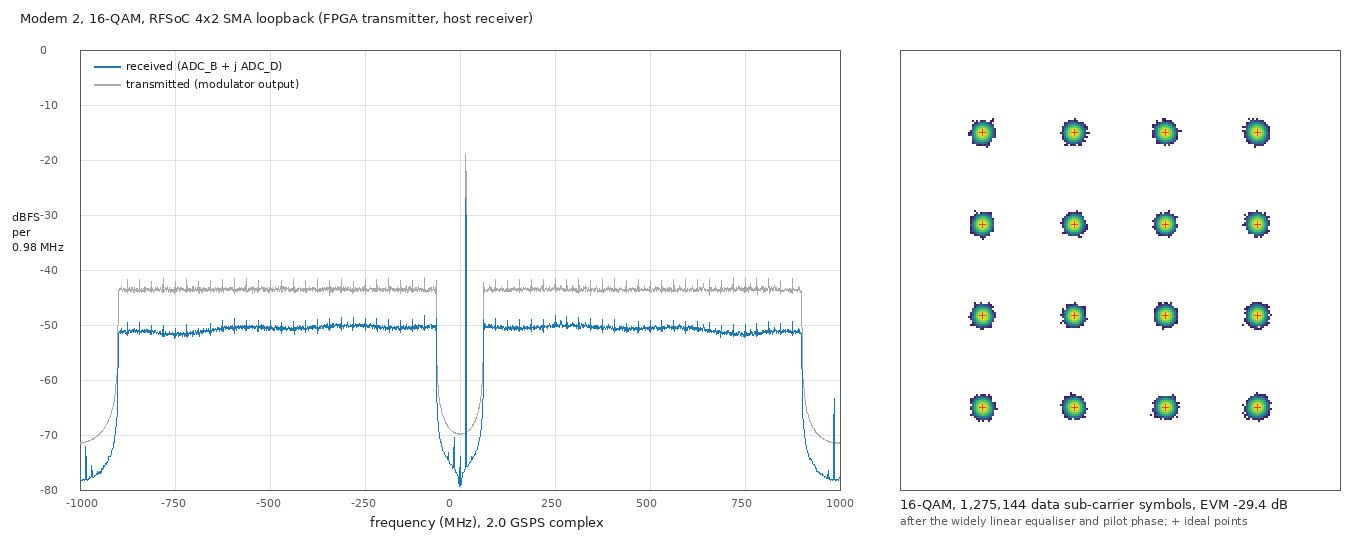
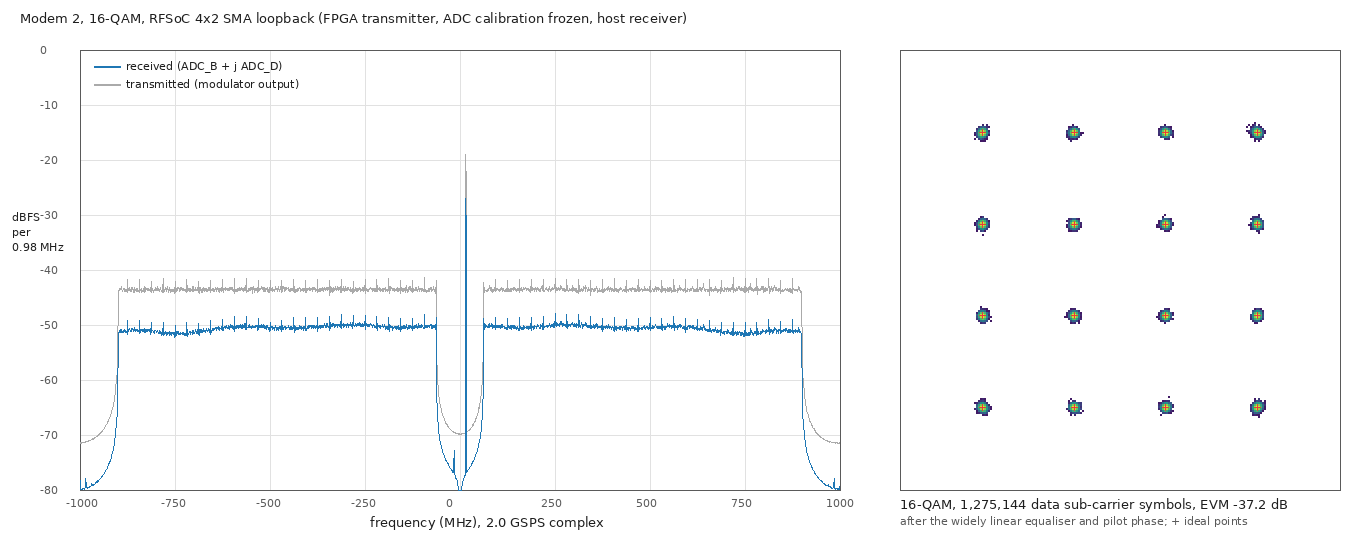
README: Modem 2 with the ADCs' calibration (tone asynchronous to the interleaving, frames muted, then frozen): EVM -37.2 dB at 2 GSPS, 415 M bits without an error at 16-QAM; 4 GSPS transmitter board; regression; worst case 2.6e-5 / 3.1e-5; figures and GIF redone

diff --git a/README.md b/README.md
@@ -9,7 +9,7 @@
 
 Continuous I/Q streaming between a Linux host and the RF data converters of the RFSoC 4x2 (XCZU48DR), carried by RoCE v2 (AMD ERNIC) on the QSFP28 port: **64 Gbit/s to the DACs and 64 Gbit/s from the ADCs at the same time, i.e. 2.0 GSPS × I/Q × 16 bit each way.** The OFDM transmitter and receiver run in C on the host CPU. Through a loopback cable (DAC_A → ADC_B for I, DAC_B → ADC_D for Q, multi-tile synchronised) the link carries raw, uncompressed video.
 
-* **Modem 2** ([zcu208_4gsps_ofdm](https://github.com/uceeyuf/zcu208_4gsps_ofdm#modem-2-two-independent-ends)): the transmitter in the FPGA modulates scrambled 720p video at 16-QAM (5.10 Gb/s); the host captures a burst of raw ADC samples and demodulates it offline. One 24.5 ms burst of 1497 OFDM frames holds 11 consecutive video frames, all byte-exact; over six bursts, 4 bit errors in 750 M bits (62 of 64 video frames byte-exact).
+* **Modem 2** ([zcu208_4gsps_ofdm](https://github.com/uceeyuf/zcu208_4gsps_ofdm#modem-2-two-independent-ends)): the transmitter in the FPGA modulates scrambled 720p video at 16-QAM (5.10 Gb/s); the host captures a burst of raw ADC samples and demodulates it offline. One 24.5 ms burst of 1497 OFDM frames holds 11 consecutive video frames; over three bursts, 375 M bits without an error, all 32 video frames byte-exact.
 It combines [rfsoc4x2_ernic](https://github.com/uceeyuf/rfsoc4x2_ernic) (100G RDMA) with [rfsoc4x2_mts](https://github.com/uceeyuf/rfsoc4x2_mts) (multi-tile sync, I/Q OFDM), both ported to Vivado 2023.2 and the RF side to 2.0 GSPS.
 
 **The OFDM modem in the FPGA** (transmitter and receiver bit-exact with their C models, on this streaming core; 2 GSPS on the board, 4 GSPS in progress) continues in [zcu208_4gsps_ofdm](https://github.com/uceeyuf/zcu208_4gsps_ofdm).
@@ -55,8 +55,8 @@ Host: Core Ultra 7 265K (8 P + 12 E cores), Mellanox ConnectX-4 (PCIe 3.0 x16), 
 | Test | Result |
 | :--- | :----- |
 | Streaming (`rf_stream_host`, tone), 10 s | 64.00 Gbit/s to the DACs and 64.00 Gbit/s from the ADCs, 0 RX gaps, 0 TX underflows, 0 RX overflows |
-| Modem 2 on the board (FPGA transmitter, host receiver on raw ADC captures; [zcu208_4gsps_ofdm](https://github.com/uceeyuf/zcu208_4gsps_ofdm#modem-2-two-independent-ends)) | 16-QAM (5.10 Gb/s), SMA loopback, 10 captures, 800 M bits: EVM −29.4 dB, 4 bit errors, BER 5.0 × 10⁻⁹ (95 % 1.9 … 12.9 × 10⁻⁹); 64 / 256-QAM BER 1.8 × 10⁻⁴ / 9.4 × 10⁻⁴ (one capture each). The converters repeat the RF pilot at ± j fs / 8 (a known spur of this board, −36 dBc) |
-| Modem 2, two independent ends, worst case (C model) | two 300 kHz lasers, carrier offset 5 MHz, sample clocks 50 ppm apart, IQ imbalance at both ends, SNR 30 dB, 16-QAM, receiver in fixed point, 12 seeds × 30 frames: BER 4.0 × 10⁻⁵ (1 polarization), 4.7 × 10⁻⁵ (2 polarizations, worst seed 8.5 × 10⁻⁵) |
+| Modem 2 on the board (FPGA transmitter, host receiver on raw ADC captures; [zcu208_4gsps_ofdm](https://github.com/uceeyuf/zcu208_4gsps_ofdm#modem-2-two-independent-ends)) | SMA loopback, the ADCs' background calibration converged on a tone asynchronous to their interleaving, then frozen. 2 GSPS: EVM −37.2 dB at 16 / 64 / 256-QAM; 16-QAM (5.10 Gb/s) 0 errors in 415 M bits (BER < 7.2 × 10⁻⁹), 64-QAM 0 / 7.7 M, 256-QAM (10.2 Gb/s) 0 / 10.2 M. 4 GSPS: 16-QAM −34.2 dB, 0 errors; 256-QAM (20.4 Gb/s) −34.4 dB, BER 4.6 × 10⁻⁵ |
+| Modem 2, two independent ends, worst case (C model) | two 300 kHz lasers, carrier offset 5 MHz, sample clocks 50 ppm apart, IQ imbalance at both ends, SNR 30 dB, 16-QAM, receiver in fixed point, 12 seeds × 30 frames: BER 2.6 × 10⁻⁵ (1 polarization), 3.1 × 10⁻⁵ (2 polarizations, worst seed 5.3 × 10⁻⁵) |
 | MTS | DAC_B / ADC_D vs DAC_A / ADC_B after sync: +0.012 … +0.014 samples (6 … 7 ps) ([log](./docs/results/mts_2gsps_board_log.txt)) |
 | Timing, resources | all constraints met (WNS +0.141 ns); BRAM 64 %, UltraRAM 75 %, DSP 0.1 %, LUT 28 % ([report](./docs/results/rdma_ofdm_timing_summary.rpt), [utilisation](./docs/results/rdma_ofdm_utilization.rpt), [by instance](./docs/results/rdma_ofdm_utilization_hierarchical.rpt)) |
 
@@ -71,25 +71,25 @@ A CPU package that reaches TjMax (105 °C) throttles, and each throttle event is
 
 ## Spectrum and constellation
 
-Modem 2 on the board: the FPGA transmitter, 64 frames of raw ADC samples of the running link (`rf_ofdm --m2 1 --dump`), the host receiver of [zcu208_4gsps_ofdm](https://github.com/uceeyuf/zcu208_4gsps_ofdm#modem-2-two-independent-ends) (fixed point, as planned for the FPGA), drawn by `host/plot_ofdm.py`.
+Modem 2 on the board: the FPGA transmitter, the ADCs' background calibration converged on its calibration tone and frozen, 64 frames of raw ADC samples of the running link (`rf_ofdm --m2 1 --adc-cal 3 --dump`), the host receiver of [zcu208_4gsps_ofdm](https://github.com/uceeyuf/zcu208_4gsps_ofdm#modem-2-two-independent-ends) (fixed point, as planned for the FPGA), drawn by `host/plot_ofdm.py`.
 * **Left**: the received PSD (blue) against the transmitter's own output, its bit-exact model at the same digital level (grey).
   * Welch estimate: 2048-point FFT, Hann window, 0.98 MHz bins.
   * Data on 62.5 … 898 MHz on both sides (804 data sub-carriers, 54 pilots); the RF pilot tone at +15.6 MHz.
-  * The analogue path costs about 7 dB, and the band stays flat within about ±1.5 dB; the noise floor near DC and above ±898 MHz is about −77 dBFS.
+  * The analogue path costs about 7 dB, and the band stays flat within about ±1 dB; the noise floor near DC and above ±898 MHz is about −78 dBFS.
 * **Right**: every data sub-carrier symbol after the widely linear combiner and the per-symbol pilot phase, as a density plot, with the ideal points.
-  * EVM is −29.4 dB for 16, 64 and 256-QAM alike: the link is limited by its SNR, not by the modulation. BER 0 (5.1 M bits) / 1.8 × 10⁻⁴ / 9.4 × 10⁻⁴.
+  * EVM is −37.2 dB for 16, 64 and 256-QAM alike: the link is limited by its SNR, not by the modulation. No errors at any of them (5.1 / 7.7 / 10.2 M bits).
 
 | ![16-QAM](./docs/img/m2_16qam.png) |
 | :--------------------------------: |
-| **Figure2** : Modem 2, 16-QAM, EVM −29.4 dB |
+| **Figure2** : Modem 2, 16-QAM, EVM −37.2 dB |
 
 | ![64-QAM](./docs/img/m2_64qam.png) |
 | :--------------------------------: |
-| **Figure3** : Modem 2, 64-QAM, EVM −29.4 dB |
+| **Figure3** : Modem 2, 64-QAM, EVM −37.2 dB |
 
 | ![256-QAM](./docs/img/m2_256qam.png) |
 | :----------------------------------: |
-| **Figure4** : Modem 2, 256-QAM, EVM −29.4 dB |
+| **Figure4** : Modem 2, 256-QAM, EVM −37.2 dB |
 
 　
 
@@ -193,7 +193,7 @@ GitHub also offers the citation under **Cite this repository** (from [CITATION.c
 
 Linux 主机与 RFSoC 4x2（XCZU48DR）射频数据转换器之间的连续 I/Q 流，由 QSFP28 口上的 RoCE v2（AMD ERNIC）承载：**同时 64 Gbit/s 送往 DAC、64 Gbit/s 来自 ADC，即双向 2.0 GSPS × I/Q × 16 bit。** OFDM 发射机和接收机都在主机 CPU 上用 C 实现。经过环回线缆（I：DAC_A → ADC_B，Q：DAC_B → ADC_D，多 tile 同步），链路传送未压缩的原始视频。
 
-* **Modem 2**（[zcu208_4gsps_ofdm](https://github.com/uceeyuf/zcu208_4gsps_ofdm#modem-2两端独立)）：FPGA 内的发射机以 16-QAM（5.10 Gb/s）调制加扰后的 720p 视频；主机采集一段原始 ADC 样本的 burst 并离线解调。一次 24.5 ms、1497 个 OFDM 帧的 burst 含 11 帧连续视频，全部逐字节正确；6 次 burst 共 750 M bit 仅 4 个比特错（64 帧视频中 62 帧逐字节正确）。
+* **Modem 2**（[zcu208_4gsps_ofdm](https://github.com/uceeyuf/zcu208_4gsps_ofdm#modem-2两端独立)）：FPGA 内的发射机以 16-QAM（5.10 Gb/s）调制加扰后的 720p 视频；主机采集一段原始 ADC 样本的 burst 并离线解调。一次 24.5 ms、1497 个 OFDM 帧的 burst 含 11 帧连续视频；三次 burst 共 375 M bit 零误码，32 帧视频全部逐字节正确。
 本仓库结合了 [rfsoc4x2_ernic](https://github.com/uceeyuf/rfsoc4x2_ernic)（100G RDMA）与 [rfsoc4x2_mts](https://github.com/uceeyuf/rfsoc4x2_mts)（多 tile 同步、I/Q OFDM），两者移植到 Vivado 2023.2，射频侧提到 2.0 GSPS。
 
 **FPGA 内的 OFDM 调制解调**（发射机和接收机与各自的 C 模型逐位一致，基于本仓库的流式核心；2 GSPS 已上板，4 GSPS 进行中）在 [zcu208_4gsps_ofdm](https://github.com/uceeyuf/zcu208_4gsps_ofdm) 继续。
@@ -221,8 +221,8 @@ Linux 主机与 RFSoC 4x2（XCZU48DR）射频数据转换器之间的连续 I/Q 
 | 测试 | 结果 |
 | :--- | :--- |
 | 流测试（单音）10 s | 双向 64.00 Gbit/s，0 RX gap，0 TX underflow，0 RX overflow |
-| Modem 2 上板（FPGA 发射，主机解原始 ADC 采集；[zcu208_4gsps_ofdm](https://github.com/uceeyuf/zcu208_4gsps_ofdm#modem-2两端独立)） | 16-QAM（5.10 Gb/s），SMA 环回，10 次采集共 800 M bit：EVM −29.4 dB，4 个比特错，BER 5.0 × 10⁻⁹（95 % 1.9 … 12.9 × 10⁻⁹）；64 / 256-QAM BER 1.8 × 10⁻⁴ / 9.4 × 10⁻⁴（各一次采集）。转换器会把射频导频复制到 ± j fs / 8 的位置（本板已知杂散，−36 dBc） |
-| Modem 2，两端独立，最坏情况（C 模型） | 两个 300 kHz 激光器，载波频偏 5 MHz，采样时钟相差 50 ppm，两端 IQ 失衡，SNR 30 dB，16-QAM，接收机定点，12 个种子 × 30 帧：BER 4.0 × 10⁻⁵（1 个偏振），4.7 × 10⁻⁵（2 个偏振，最差种子 8.5 × 10⁻⁵） |
+| Modem 2 上板（FPGA 发射，主机解原始 ADC 采集；[zcu208_4gsps_ofdm](https://github.com/uceeyuf/zcu208_4gsps_ofdm#modem-2两端独立)） | SMA 环回，ADC 后台校准先在与其交织不同步的单音上收敛，然后冻结。2 GSPS：16 / 64 / 256-QAM 的 EVM 都是 −37.2 dB；16-QAM（5.10 Gb/s）415 M bit 零误码（BER < 7.2 × 10⁻⁹），64-QAM 0 / 7.7 M，256-QAM（10.2 Gb/s）0 / 10.2 M。4 GSPS：16-QAM −34.2 dB，零误码；256-QAM（20.4 Gb/s）−34.4 dB，BER 4.6 × 10⁻⁵ |
+| Modem 2，两端独立，最坏情况（C 模型） | 两个 300 kHz 激光器，载波频偏 5 MHz，采样时钟相差 50 ppm，两端 IQ 失衡，SNR 30 dB，16-QAM，接收机定点，12 个种子 × 30 帧：BER 2.6 × 10⁻⁵（1 个偏振），3.1 × 10⁻⁵（2 个偏振，最差种子 5.3 × 10⁻⁵） |
 | MTS | 同步后 DAC_B / ADC_D 相对 DAC_A / ADC_B：+0.012 … +0.014 样本（6 … 7 ps） |
 | 时序、资源 | 全部满足（WNS +0.141 ns）；BRAM 64 %，UltraRAM 75 %，DSP 0.1 %，LUT 28 % |
 
@@ -235,13 +235,13 @@ CPU 封装达到 TjMax（105 °C）时会热降频，每次降频就是一次这
 
 ## 频谱与星座图
 
-Modem 2 上板：FPGA 发射机，取运行中链路的 64 帧原始 ADC 样本（`rf_ofdm --m2 1 --dump`），由 [zcu208_4gsps_ofdm](https://github.com/uceeyuf/zcu208_4gsps_ofdm#modem-2两端独立) 的主机接收机（按计划的 FPGA 实现做定点）处理，`host/plot_ofdm.py` 绘制（见上文图 2–4）。
+Modem 2 上板：FPGA 发射机，ADC 后台校准先在其校准单音上收敛并冻结，取运行中链路的 64 帧原始 ADC 样本（`rf_ofdm --m2 1 --adc-cal 3 --dump`），由 [zcu208_4gsps_ofdm](https://github.com/uceeyuf/zcu208_4gsps_ofdm#modem-2两端独立) 的主机接收机（按计划的 FPGA 实现做定点）处理，`host/plot_ofdm.py` 绘制（见上文图 2–4）。
 * **左图**：接收 PSD（蓝）与发射机自身输出（其位精确模型，相同数字电平，灰）的对比。
   * Welch 估计：2048 点 FFT，Hann 窗，每格 0.98 MHz。
   * 数据在两侧 62.5 … 898 MHz（804 个数据子载波，54 个导频）；射频导频单音在 +15.6 MHz。
-  * 模拟链路损耗约 7 dB，带内平坦度约 ±1.5 dB；DC 附近和 ±898 MHz 以外噪底约 −77 dBFS。
+  * 模拟链路损耗约 7 dB，带内平坦度约 ±1 dB；DC 附近和 ±898 MHz 以外噪底约 −78 dBFS。
 * **右图**：宽线性合并与逐符号导频相位校正之后的全部数据子载波符号密度图，叠加理想星座点。
-  * 16 / 64 / 256-QAM 的 EVM 都是 −29.4 dB，说明链路受 SNR 限制，与调制阶数无关。BER 0（5.1 M bit）/ 1.8 × 10⁻⁴ / 9.4 × 10⁻⁴。
+  * 16 / 64 / 256-QAM 的 EVM 都是 −37.2 dB，说明链路受 SNR 限制，与调制阶数无关。三种调制都没有误码（5.1 / 7.7 / 10.2 M bit）。
 
 构建与运行步骤见上文英文部分（建议 `isolcpus=4-7`，每次开机后运行 `sudo tests/host_tune.sh`）。
 
